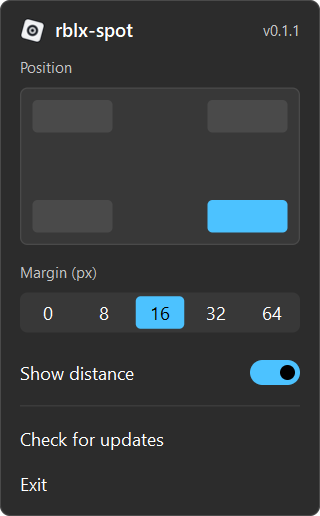
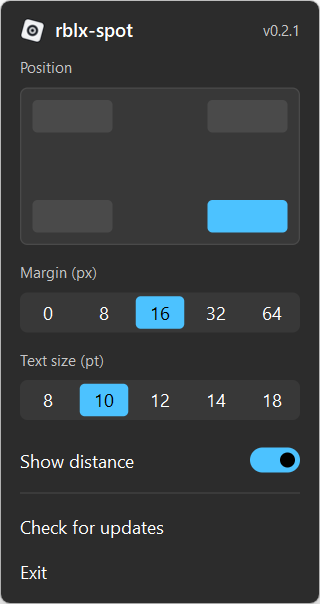
Add settings for font size

diff --git a/src/popup.rs b/src/popup.rs
@@ -16,18 +16,19 @@ use windows_sys::Win32::UI::WindowsAndMessaging::*;
 
 use crate::dib_info;
 use crate::splash::icon_pixels;
-use crate::settings::{Settings, MARGINS};
+use crate::settings::{Settings, MARGINS, SIZES};
 use crate::update::{self, Status};
 
 const WM_MOUSELEAVE: u32 = 0x02A3;
 const W: f32 = 256.0;
-const H: f32 = 413.0;
+const H: f32 = 483.0;
 const P: f32 = 16.0;
 const PREVIEW: R = R { x: P, y: 70.0, w: W - 2.0 * P, h: 126.0 };
 const SEGMENTS: R = R { x: P, y: 234.0, w: W - 2.0 * P, h: 32.0 };
-const DISTANCE: R = R { x: 6.0, y: 280.0, w: W - 12.0, h: 36.0 };
-const UPDATE: R = R { x: 6.0, y: 333.0, w: W - 12.0, h: 36.0 };
-const EXIT: R = R { x: 6.0, y: 369.0, w: W - 12.0, h: 36.0 };
+const SIZE_SEGMENTS: R = R { y: 304.0, ..SEGMENTS };
+const DISTANCE: R = R { x: 6.0, y: 350.0, w: W - 12.0, h: 36.0 };
+const UPDATE: R = R { x: 6.0, y: 403.0, w: W - 12.0, h: 36.0 };
+const EXIT: R = R { x: 6.0, y: 439.0, w: W - 12.0, h: 36.0 };
 
 thread_local! {
     static POPUP: Cell<HWND> = const { Cell::new(null_mut()) };
@@ -44,6 +45,7 @@ pub fn settings() -> Settings {
 enum Hit {
     Corner(usize),
     Margin(usize),
+    Size(usize),
     Distance,
     Update,
     Exit,
@@ -81,14 +83,15 @@ fn corner_box(i: usize) -> R {
     R { x, y, w, h }
 }
 
-fn segment(i: usize) -> R {
-    SEGMENTS.cell(i, 0, MARGINS.len(), 1)
+fn segment(row: R, i: usize) -> R {
+    row.cell(i, 0, 5, 1)
 }
 
 fn hits() -> impl Iterator<Item = (Hit, R)> {
     let corners = (0..4).map(|i| (Hit::Corner(i), PREVIEW.cell(i & 1, i >> 1, 2, 2)));
-    let margins = (0..MARGINS.len()).map(|i| (Hit::Margin(i), segment(i)));
-    corners.chain(margins).chain([(Hit::Distance, DISTANCE), (Hit::Update, UPDATE), (Hit::Exit, EXIT)])
+    let margins = (0..MARGINS.len()).map(|i| (Hit::Margin(i), segment(SEGMENTS, i)));
+    let sizes = (0..SIZES.len()).map(|i| (Hit::Size(i), segment(SIZE_SEGMENTS, i)));
+    corners.chain(margins).chain(sizes).chain([(Hit::Distance, DISTANCE), (Hit::Update, UPDATE), (Hit::Exit, EXIT)])
 }
 
 struct Theme {
@@ -211,13 +214,15 @@ fn shapes(mut c: Canvas, t: &Theme, cfg: Settings) {
         let color = if i == cfg.corner { t.accent } else if hover == Some(Hit::Corner(i)) { t.subtle } else { t.stroke };
         c.fill(corner_box(i), 4.0, color);
     }
-    c.fill(SEGMENTS, 6.0, t.surface);
-    for i in 0..MARGINS.len() {
-        let seg = segment(i).inset(3.0);
-        if i == cfg.margin {
-            c.fill(seg, 4.0, t.accent);
-        } else if hover == Some(Hit::Margin(i)) {
-            c.fill(seg, 4.0, t.hover);
+    for (row, selected, hit) in [(SEGMENTS, cfg.margin, Hit::Margin as fn(usize) -> Hit), (SIZE_SEGMENTS, cfg.size, Hit::Size)] {
+        c.fill(row, 6.0, t.surface);
+        for i in 0..5 {
+            let seg = segment(row, i).inset(3.0);
+            if i == selected {
+                c.fill(seg, 4.0, t.accent);
+            } else if hover == Some(hit(i)) {
+                c.fill(seg, 4.0, t.hover);
+            }
         }
     }
     for (hit, row) in [(Hit::Distance, DISTANCE), (Hit::Update, UPDATE), (Hit::Exit, EXIT)] {
@@ -234,7 +239,7 @@ fn shapes(mut c: Canvas, t: &Theme, cfg: Settings) {
         c.fill(toggle.inset(1.0), 9.0, if hover == Some(Hit::Distance) { t.hover } else { t.bg });
         c.fill(R { x: toggle.x + 5.0, y: toggle.y + 5.0, w: 10.0, h: 10.0 }, 5.0, t.subtle);
     }
-    c.fill(R { x: P, y: 324.0, w: W - 2.0 * P, h: 1.0 }, 0.0, t.stroke);
+    c.fill(R { x: P, y: 394.0, w: W - 2.0 * P, h: 1.0 }, 0.0, t.stroke);
     c.image(P, 14.0, 20.0, |n| unsafe { icon_pixels(n) });
 }
 
@@ -249,10 +254,13 @@ unsafe fn labels(dc: HDC, s: f32, t: &Theme, cfg: Settings) {
     text(dc, s, line(12.0, 24.0), concat!("v", env!("CARGO_PKG_VERSION")), t.subtle, DT_RIGHT);
     text(dc, s, line(44.0, 20.0), "Position", t.subtle, DT_LEFT);
     text(dc, s, line(208.0, 20.0), "Margin (px)", t.subtle, DT_LEFT);
+    text(dc, s, line(278.0, 20.0), "Text size (pt)", t.subtle, DT_LEFT);
     SelectObject(dc, fonts[2]);
-    for (i, m) in MARGINS.iter().enumerate() {
-        let color = if i == cfg.margin { t.on_accent } else { t.text };
-        text(dc, s, segment(i), &m.to_string(), color, DT_CENTER);
+    for (row, values, selected) in [(SEGMENTS, MARGINS, cfg.margin), (SIZE_SEGMENTS, SIZES, cfg.size)] {
+        for (i, v) in values.iter().enumerate() {
+            let color = if i == selected { t.on_accent } else { t.text };
+            text(dc, s, segment(row, i), &v.to_string(), color, DT_CENTER);
+        }
     }
     text(dc, s, line(DISTANCE.y, DISTANCE.h), "Show distance", t.text, DT_LEFT);
     let (label, status, color) = match update::status() {
@@ -307,6 +315,7 @@ unsafe extern "system" fn proc(hwnd: HWND, msg: u32, wp: WPARAM, lp: LPARAM) -> 
             match hit_at(hwnd, lp) {
                 Some(Hit::Corner(i)) => cfg.corner = i,
                 Some(Hit::Margin(i)) => cfg.margin = i,
+                Some(Hit::Size(i)) => cfg.size = i,
                 Some(Hit::Distance) => cfg.distance = !cfg.distance,
                 Some(Hit::Update) if matches!(update::status(), Status::Available(_)) => update::open_releases(),
                 Some(Hit::Update) => {

diff --git a/src/settings.rs b/src/settings.rs
@@ -3,15 +3,17 @@ use std::path::PathBuf;
 use serde_json::{json, Value};
 
 pub const MARGINS: [i32; 5] = [0, 8, 16, 32, 64];
+pub const SIZES: [i32; 5] = [8, 10, 12, 14, 18];
 
 #[derive(Clone, Copy, PartialEq, Debug)]
 pub struct Settings {
     pub corner: usize, // bit 0 = right, bit 1 = bottom
     pub margin: usize,
     pub distance: bool,
+    pub size: usize,
 }
 
-const DEFAULT: Settings = Settings { corner: 3, margin: 2, distance: true };
+const DEFAULT: Settings = Settings { corner: 3, margin: 2, distance: true, size: 1 };
 
 fn path() -> Option<PathBuf> {
     Some(PathBuf::from(std::env::var_os("APPDATA")?).join("rblx-spot").join("settings.json"))
@@ -32,15 +34,17 @@ impl Settings {
 
     fn from_json(v: &Value) -> Self {
         let margin_px = v["margin"].as_i64();
+        let size_pt = v["size"].as_i64();
         Settings {
             corner: v["corner"].as_u64().map(|c| c as usize).filter(|&c| c < 4).unwrap_or(DEFAULT.corner),
             margin: MARGINS.iter().position(|&m| Some(m as i64) == margin_px).unwrap_or(DEFAULT.margin),
             distance: v["distance"].as_bool().unwrap_or(DEFAULT.distance),
+            size: SIZES.iter().position(|&p| Some(p as i64) == size_pt).unwrap_or(DEFAULT.size),
         }
     }
 
     fn to_json(self) -> Value {
-        json!({ "corner": self.corner, "margin": MARGINS[self.margin], "distance": self.distance })
+        json!({ "corner": self.corner, "margin": MARGINS[self.margin], "distance": self.distance, "size": SIZES[self.size] })
     }
 }
 
@@ -50,9 +54,9 @@ mod tests {
 
     #[test]
     fn roundtrip() {
-        let s = Settings { corner: 0, margin: 4, distance: false };
+        let s = Settings { corner: 0, margin: 4, distance: false, size: 4 };
         assert_eq!(Settings::from_json(&s.to_json()), s);
         assert_eq!(Settings::from_json(&Value::Null), DEFAULT);
-        assert_eq!(Settings::from_json(&json!({ "corner": 9, "margin": 7, "distance": "x" })), DEFAULT);
+        assert_eq!(Settings::from_json(&json!({ "corner": 9, "margin": 7, "distance": "x", "size": 11 })), DEFAULT);
     }
 }

diff --git a/src/main.rs b/src/main.rs
@@ -13,7 +13,7 @@ mod update;
 use std::mem::{size_of, zeroed};
 use std::ptr::{null, null_mut};
 
-use settings::{Settings, MARGINS};
+use settings::{Settings, MARGINS, SIZES};
 use tray_icon::{Icon, MouseButtonState, TrayIconBuilder, TrayIconEvent};
 use windows_sys::w;
 use windows_sys::Win32::Foundation::*;
@@ -82,7 +82,7 @@ unsafe fn render(hwnd: HWND, text: &str, [l, t, r, b]: [i32; 4], dpi: u32, s: Se
     let text: Vec<u16> = text.encode_utf16().collect();
     let dc = CreateCompatibleDC(null_mut());
     let font = CreateFontW(
-        -((10 * dpi as i32 + 36) / 72), 0, 0, 0, FW_NORMAL as i32, 0, 0, 0, DEFAULT_CHARSET as u32,
+        -((SIZES[s.size] * dpi as i32 + 36) / 72), 0, 0, 0, FW_NORMAL as i32, 0, 0, 0, DEFAULT_CHARSET as u32,
         OUT_DEFAULT_PRECIS as u32, CLIP_DEFAULT_PRECIS as u32, ANTIALIASED_QUALITY as u32, 0, w!("Consolas"),
     );
     let old_font = SelectObject(dc, font);

diff --git a/scripts/icon.py b/scripts/icon.py
@@ -1,4 +1,8 @@
+from pathlib import Path
+
 from PIL import Image, ImageDraw
+
+ROOT = Path(__file__).resolve().parent.parent
 
 S = 2048
 INK, PAPER = "#1E2229", "#F4F5F7"
@@ -24,5 +28,5 @@ im = square
 
 sizes = [16, 20, 24, 32, 40, 48, 64, 256]
 frames = [im.resize((s, s), Image.LANCZOS) for s in sizes]
-frames[-1].save("icon.ico", sizes=[(s, s) for s in sizes], append_images=frames)
-frames[-1].save("icon.png")
+frames[-1].save(ROOT / "icon.ico", sizes=[(s, s) for s in sizes], append_images=frames)
+frames[-1].save(ROOT / "icon.png")

diff --git a/README.md b/README.md
@@ -10,7 +10,7 @@
 
 - 🌍 Shows the server's IP address, region and distance from you in a corner of the game
 - 👻 Click-through overlay that only appears while Roblox is the focused window
-- ⚙ Pick the corner, margin and whether to show distance from the tray
+- ⚙ Pick the corner, margin, text size and whether to show distance from the tray
 - 🪶 Small and quiet, lives in the system tray
 
 ## 🚀 Usage
